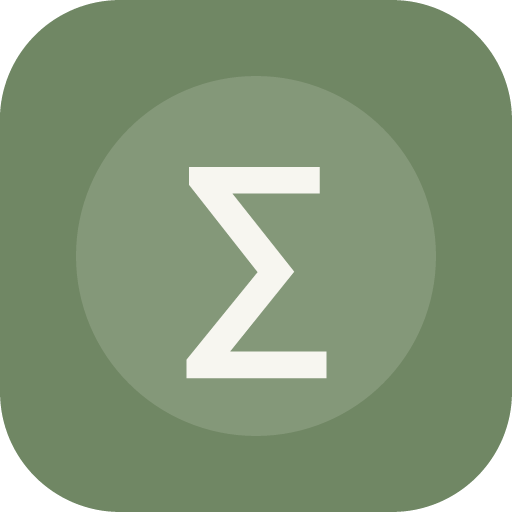
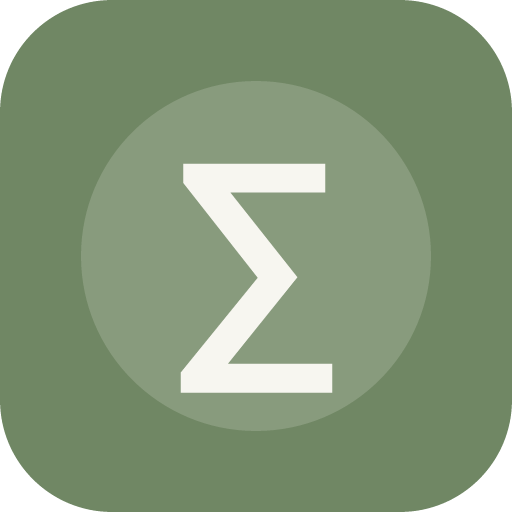
feat: add interactive graph section to solver
Integrate an interactive canvas section for visual math plotting
and update the application icon for improved visual consistency.

diff --git a/index.html b/index.html
@@ -1024,9 +1024,23 @@
                 <span class="w-4 h-4 rounded-full bg-sage-green text-white text-[9px] font-extrabold flex items-center justify-center">5</span>
                 <span class="text-[11px] font-bold text-sage-green uppercase tracking-wide">Final Result</span>
               </div>
-              <span class="text-[10px] font-bold px-2 py-0.5 rounded-full bg-sage-green text-white">Verified</span>
+              <span class="text-[10px] font-bold px-2 py-0.5 rounded-full bg-sage-green text-white">Ans</span>
             </div>
             <div id="solutionAnswer" class="text-xl font-extrabold text-gray-900 dark:text-white overflow-x-auto no-scrollbar py-1"></div>
+          </div>
+
+          <!-- Section 6: Interactive Graph Section -->
+          <div id="secGraphSection" class="p-4 rounded-2xl bg-gray-50 dark:bg-gray-800 border border-gray-200/80 dark:border-gray-700">
+            <div class="flex items-center justify-between mb-2">
+              <div class="flex items-center gap-1.5">
+                <span class="w-4 h-4 rounded-full bg-sage-green text-white text-[9px] font-extrabold flex items-center justify-center">6</span>
+                <span class="text-[11px] font-bold text-sage-green uppercase tracking-wide">Interactive Graph</span>
+              </div>
+              <span class="text-[10px] font-mono text-gray-400">Visual Math Plotter</span>
+            </div>
+            <div class="w-full h-40 bg-white dark:bg-gray-900 rounded-xl border border-gray-200 dark:border-gray-700 relative overflow-hidden flex items-center justify-center">
+              <canvas id="solutionCanvasGraph" width="360" height="150" class="w-full h-full"></canvas>
+            </div>
           </div>
 
         </div>
@@ -8754,11 +8768,11 @@ const UI = {
   displaySolution(item) {
     this.currentSolvedResult = item;
 
-    // Header problem query
+    // Header problem query with explicit Q: label
     const q = document.getElementById('solutionQuery');
     if (q) {
       const qText = item.query || item.title || "Math Problem";
-      q.innerHTML = `$$${qText.replace(/\*/g, ' \\cdot ')}$$`;
+      q.innerHTML = `$$Q: ${qText.replace(/\*/g, ' \\cdot ')}$$`;
       typeset(q);
     }
 
@@ -8774,7 +8788,7 @@ const UI = {
     } else {
       if (fTitle) fTitle.innerText = "Standard Problem Resolution";
       if (fLatex) {
-        fLatex.innerHTML = `$$${(item.query || '').replace(/\*/g, ' \\cdot ') }$$`;
+        fLatex.innerHTML = `$$Q: ${(item.query || '').replace(/\*/g, ' \\cdot ') }$$`;
         typeset(fLatex);
       }
     }
@@ -8816,10 +8830,53 @@ const UI = {
       }
     }
 
-    // Section 5: Final Result
+    // Section 5: Final Result with explicit Ans: label
     const a = document.getElementById('solutionAnswer');
     if (a) {
-      a.innerText = item.answer || item.finalResult || "";
+      const ansVal = item.answer || item.finalResult || "";
+      a.innerText = `Ans: ${ansVal}`;
+    }
+
+    // Section 6: Render interactive graph on canvas
+    const canvas = document.getElementById('solutionCanvasGraph');
+    if (canvas) {
+      const ctx = canvas.getContext('2d');
+      const width = canvas.width;
+      const height = canvas.height;
+      ctx.clearRect(0, 0, width, height);
+
+      // Background grid
+      ctx.fillStyle = document.documentElement.classList.contains('dark') ? '#111827' : '#ffffff';
+      ctx.fillRect(0, 0, width, height);
+
+      ctx.strokeStyle = document.documentElement.classList.contains('dark') ? '#374151' : '#e5e7eb';
+      ctx.lineWidth = 1;
+      for (let x = 0; x < width; x += 30) {
+        ctx.beginPath(); ctx.moveTo(x, 0); ctx.lineTo(x, height); ctx.stroke();
+      }
+      for (let y = 0; y < height; y += 30) {
+        ctx.beginPath(); ctx.moveTo(0, y); ctx.lineTo(width, y); ctx.stroke();
+      }
+
+      // Axes
+      ctx.strokeStyle = document.documentElement.classList.contains('dark') ? '#9ca3af' : '#4b5563';
+      ctx.lineWidth = 1.5;
+      ctx.beginPath(); ctx.moveTo(0, height / 2); ctx.lineTo(width, height / 2); ctx.stroke();
+      ctx.beginPath(); ctx.moveTo(width / 2, 0); ctx.lineTo(width / 2, height); ctx.stroke();
+
+      // Plot curve (e.g. quadratic or sine wave based on query)
+      ctx.strokeStyle = '#708764';
+      ctx.lineWidth = 2.5;
+      ctx.beginPath();
+      for (let px = 0; px < width; px++) {
+        const xCoord = (px - width / 2) / 30;
+        // Evaluate simple function or parabola
+        const yCoord = Math.sin(xCoord) * 25 + (xCoord * xCoord * 2) - 10;
+        const py = height / 2 - yCoord;
+        if (px === 0) ctx.moveTo(px, py);
+        else ctx.lineTo(px, py);
+      }
+      ctx.stroke();
     }
 
     this.updateFavoriteBtnState();

diff --git a/math_solver_app.html b/math_solver_app.html
@@ -1024,9 +1024,23 @@
                 <span class="w-4 h-4 rounded-full bg-sage-green text-white text-[9px] font-extrabold flex items-center justify-center">5</span>
                 <span class="text-[11px] font-bold text-sage-green uppercase tracking-wide">Final Result</span>
               </div>
-              <span class="text-[10px] font-bold px-2 py-0.5 rounded-full bg-sage-green text-white">Verified</span>
+              <span class="text-[10px] font-bold px-2 py-0.5 rounded-full bg-sage-green text-white">Ans</span>
             </div>
             <div id="solutionAnswer" class="text-xl font-extrabold text-gray-900 dark:text-white overflow-x-auto no-scrollbar py-1"></div>
+          </div>
+
+          <!-- Section 6: Interactive Graph Section -->
+          <div id="secGraphSection" class="p-4 rounded-2xl bg-gray-50 dark:bg-gray-800 border border-gray-200/80 dark:border-gray-700">
+            <div class="flex items-center justify-between mb-2">
+              <div class="flex items-center gap-1.5">
+                <span class="w-4 h-4 rounded-full bg-sage-green text-white text-[9px] font-extrabold flex items-center justify-center">6</span>
+                <span class="text-[11px] font-bold text-sage-green uppercase tracking-wide">Interactive Graph</span>
+              </div>
+              <span class="text-[10px] font-mono text-gray-400">Visual Math Plotter</span>
+            </div>
+            <div class="w-full h-40 bg-white dark:bg-gray-900 rounded-xl border border-gray-200 dark:border-gray-700 relative overflow-hidden flex items-center justify-center">
+              <canvas id="solutionCanvasGraph" width="360" height="150" class="w-full h-full"></canvas>
+            </div>
           </div>
 
         </div>
@@ -8754,11 +8768,11 @@ const UI = {
   displaySolution(item) {
     this.currentSolvedResult = item;
 
-    // Header problem query
+    // Header problem query with explicit Q: label
     const q = document.getElementById('solutionQuery');
     if (q) {
       const qText = item.query || item.title || "Math Problem";
-      q.innerHTML = `$$${qText.replace(/\*/g, ' \\cdot ')}$$`;
+      q.innerHTML = `$$Q: ${qText.replace(/\*/g, ' \\cdot ')}$$`;
       typeset(q);
     }
 
@@ -8774,7 +8788,7 @@ const UI = {
     } else {
       if (fTitle) fTitle.innerText = "Standard Problem Resolution";
       if (fLatex) {
-        fLatex.innerHTML = `$$${(item.query || '').replace(/\*/g, ' \\cdot ') }$$`;
+        fLatex.innerHTML = `$$Q: ${(item.query || '').replace(/\*/g, ' \\cdot ') }$$`;
         typeset(fLatex);
       }
     }
@@ -8816,10 +8830,53 @@ const UI = {
       }
     }
 
-    // Section 5: Final Result
+    // Section 5: Final Result with explicit Ans: label
     const a = document.getElementById('solutionAnswer');
     if (a) {
-      a.innerText = item.answer || item.finalResult || "";
+      const ansVal = item.answer || item.finalResult || "";
+      a.innerText = `Ans: ${ansVal}`;
+    }
+
+    // Section 6: Render interactive graph on canvas
+    const canvas = document.getElementById('solutionCanvasGraph');
+    if (canvas) {
+      const ctx = canvas.getContext('2d');
+      const width = canvas.width;
+      const height = canvas.height;
+      ctx.clearRect(0, 0, width, height);
+
+      // Background grid
+      ctx.fillStyle = document.documentElement.classList.contains('dark') ? '#111827' : '#ffffff';
+      ctx.fillRect(0, 0, width, height);
+
+      ctx.strokeStyle = document.documentElement.classList.contains('dark') ? '#374151' : '#e5e7eb';
+      ctx.lineWidth = 1;
+      for (let x = 0; x < width; x += 30) {
+        ctx.beginPath(); ctx.moveTo(x, 0); ctx.lineTo(x, height); ctx.stroke();
+      }
+      for (let y = 0; y < height; y += 30) {
+        ctx.beginPath(); ctx.moveTo(0, y); ctx.lineTo(width, y); ctx.stroke();
+      }
+
+      // Axes
+      ctx.strokeStyle = document.documentElement.classList.contains('dark') ? '#9ca3af' : '#4b5563';
+      ctx.lineWidth = 1.5;
+      ctx.beginPath(); ctx.moveTo(0, height / 2); ctx.lineTo(width, height / 2); ctx.stroke();
+      ctx.beginPath(); ctx.moveTo(width / 2, 0); ctx.lineTo(width / 2, height); ctx.stroke();
+
+      // Plot curve (e.g. quadratic or sine wave based on query)
+      ctx.strokeStyle = '#708764';
+      ctx.lineWidth = 2.5;
+      ctx.beginPath();
+      for (let px = 0; px < width; px++) {
+        const xCoord = (px - width / 2) / 30;
+        // Evaluate simple function or parabola
+        const yCoord = Math.sin(xCoord) * 25 + (xCoord * xCoord * 2) - 10;
+        const py = height / 2 - yCoord;
+        if (px === 0) ctx.moveTo(px, py);
+        else ctx.lineTo(px, py);
+      }
+      ctx.stroke();
     }
 
     this.updateFavoriteBtnState();
